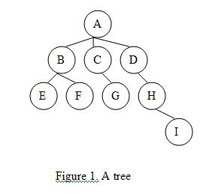
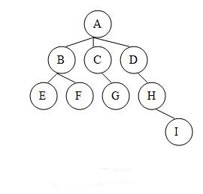
add slug for figures in Tree Properties

Changed region(s): [[0.266, 0.866, 0.6502, 0.9588]]

diff --git a/source/_posts/2016-11-15-Tree-Properties.md b/source/_posts/2016-11-15-Tree-Properties.md
@@ -15,7 +15,7 @@ E.g. In Figure 1, the tree has a height of 3, node **G** has a depth of 2, node 
 
 | &nbsp; | &nbsp; |
 | :---   | ---:   | 
-| {% asset_img tree_properties_1.jpg " " " "%} | {% asset_img tree_height_depth.png " " "Figure 2"%} |
+| {% asset_img tree_properties_1.jpg "Figure 1" "A tree "%} | {% asset_img tree_height_depth.png "Figure 2" "Tree height and depth "%} |
 
 
 ##### References ######
